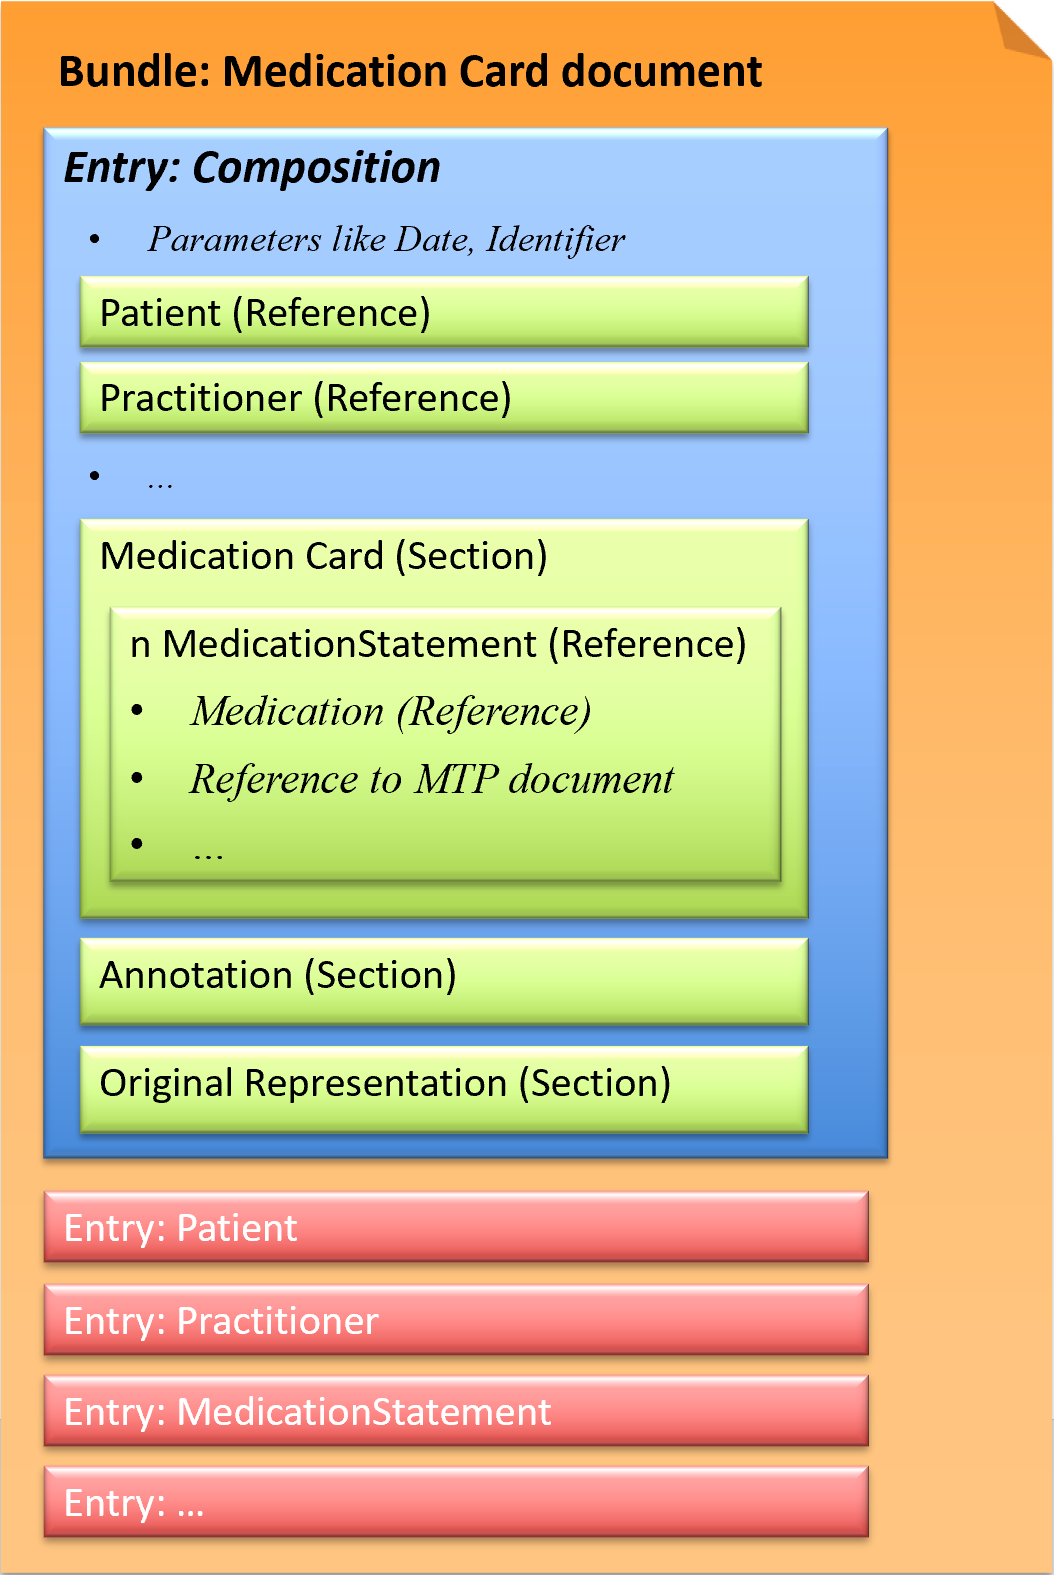
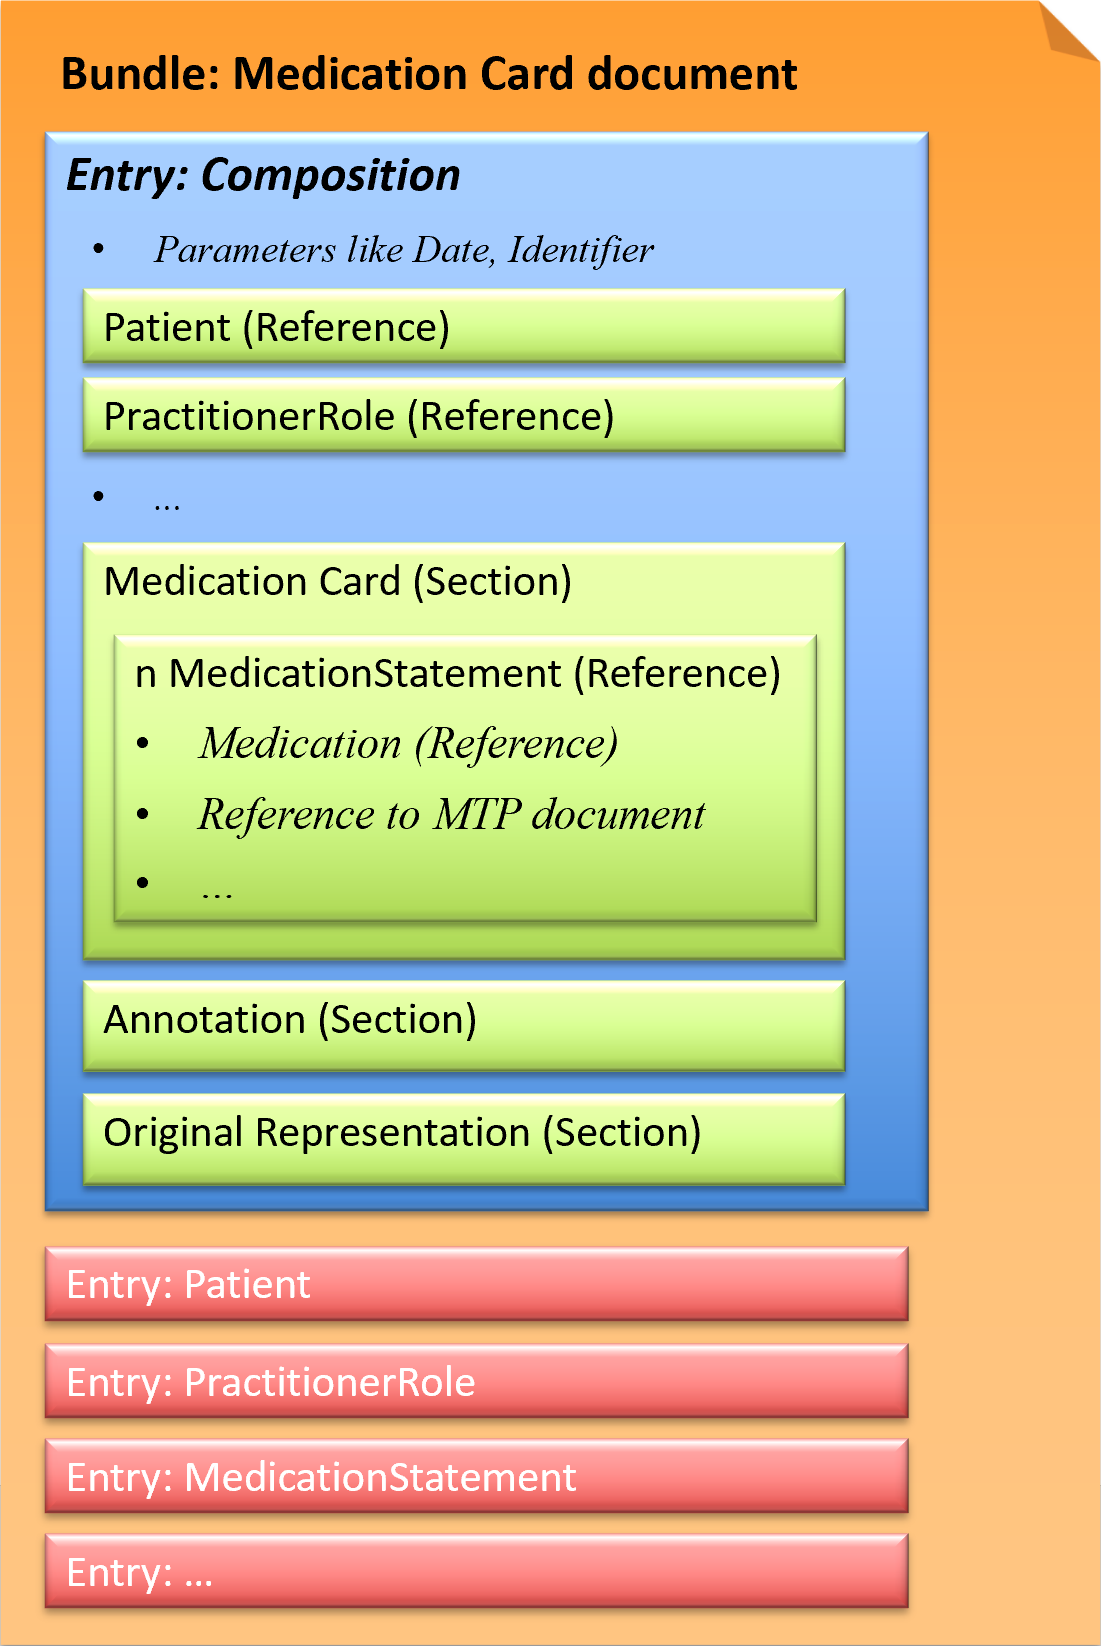
update doc figures #278

diff --git a/input/pagecontent/changelog.md b/input/pagecontent/changelog.md
@@ -1,6 +1,8 @@
 
 All significant changes to this FHIR implementation guide will be documented on this page.   
 
+* [#278](https://github.com/hl7ch/ch-emed/issues/278): Update the figures of the documents
+
 ### STU 5 Sequence - v5.0.0-ballot (2024-05-16)
 
 #### Added
